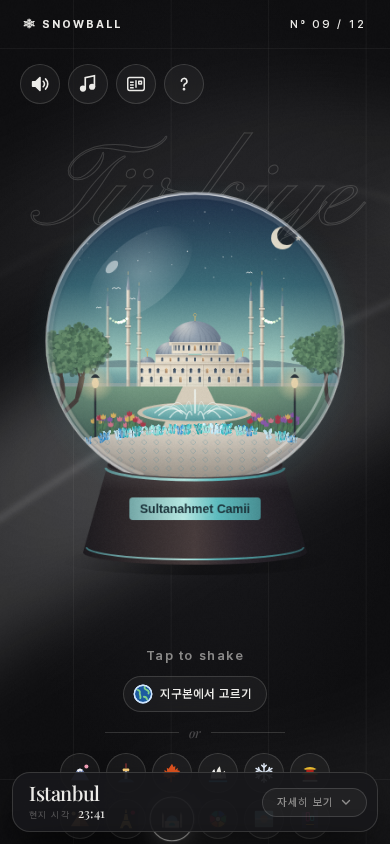
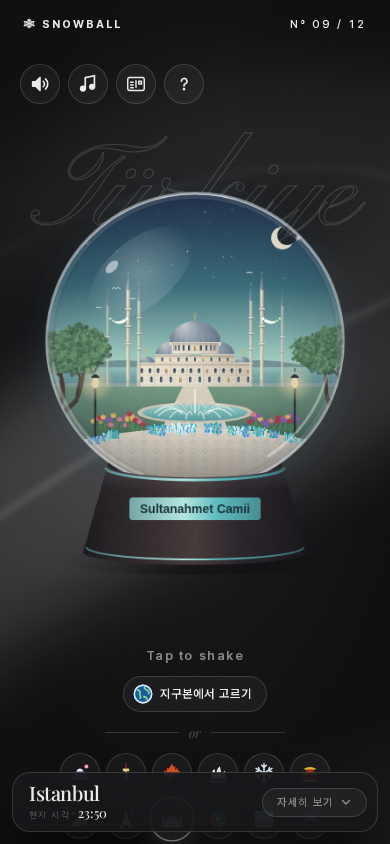
Remove background guide lines; Hong Kong: smooth street reflections, no paving joints; Uyuni: flat-bottomed sunrise cumulus and irregular salt-crust honeycomb in perspective; smoother phone sheet and scrolling (snowball pauses when covered, silk background composited once, neighbour pre-build split 
Claude-Session: https://claude.ai/code/session_01JhbTuZzDjvpknmtaqT34oX

Changed region(s): [[0.2154, 0.4929, 0.7692, 0.5237], [0.2462, 0.955, 0.2769, 0.9858]]

diff --git a/styles.css b/styles.css
@@ -87,25 +87,20 @@ body {
   pointer-events: none;
 }
 
-.silk-drift-a {
-  animation: drift-a 26s ease-in-out infinite alternate;
-}
-
-.silk-drift-b {
-  animation: drift-b 34s ease-in-out infinite alternate;
+/* 비단 빛줄기는 SVG 블러라 안쪽을 움직이면 매 프레임 블러를 다시 계산함 → 휴대폰에서 스크롤·시트가 끊김.
+   그림 전체를 한 덩어리로 옮기면 한 번 그린 것을 그대로 밀기만 함 */
+.silk {
+  transform: scale(1.08);
+  will-change: transform;
+  animation: drift-a 30s ease-in-out infinite alternate;
 }
 
 @keyframes drift-a {
   to {
-    transform: translate(-40px, 30px) rotate(-2deg);
+    transform: translate(-30px, 20px) scale(1.08) rotate(-1deg);
   }
 }
 
-@keyframes drift-b {
-  to {
-    transform: translate(50px, -20px) rotate(3deg);
-  }
-}
 
 .masthead {
   position: absolute;
@@ -137,19 +132,6 @@ body {
 
 .edition-index {
   color: var(--ink);
-}
-
-/* 가는 기준선: 세로 네 칸 + 머리·발 가로줄 */
-.rules {
-  position: fixed;
-  inset: 0;
-  z-index: -1;
-  pointer-events: none;
-  background:
-    linear-gradient(var(--line-faint), var(--line-faint)) 0 48px / 100% 1px no-repeat,
-    linear-gradient(var(--line-faint), var(--line-faint)) 0 calc(100% - 64px) / 100% 1px no-repeat,
-    linear-gradient(90deg, var(--line-faint) 1px, transparent 1px) 0 0 / 25% 100%;
-  background-position-x: 0, 0, 25%;
 }
 
 /* 스노우볼 뒤에 장면 색으로 번지는 빛 */
@@ -419,6 +401,7 @@ body {
   white-space: nowrap;
   color: var(--ink-faint);
   animation: ticker 70s linear infinite;
+  will-change: transform;
 }
 
 .ticker-track i {
@@ -535,6 +518,7 @@ body {
     box-shadow: 0 -20px 40px -20px rgba(0, 0, 0, 0.8);
     transform: translateY(105%);
     transition: transform 0.35s cubic-bezier(0.2, 0.8, 0.2, 1);
+    will-change: transform;
   }
 
   body.sheet-open .meta .meta-more {
@@ -836,8 +820,7 @@ body {
     transition: none;
   }
 
-  .silk-drift-a,
-  .silk-drift-b,
+  .silk,
   .ticker-track,
   .ghost-in {
     animation: none;

diff --git a/index.html b/index.html
@@ -37,8 +37,6 @@
       <rect width="1600" height="1000" filter="url(#grain)" opacity="0.05" />
     </svg>
 
-    <!-- 편집 디자인처럼 화면을 나누는 가는 기준선 -->
-    <div class="rules" aria-hidden="true"></div>
 
     <header class="masthead">
       <span class="brand">❄ SNOWBALL <em>Vol. 01</em></span>
